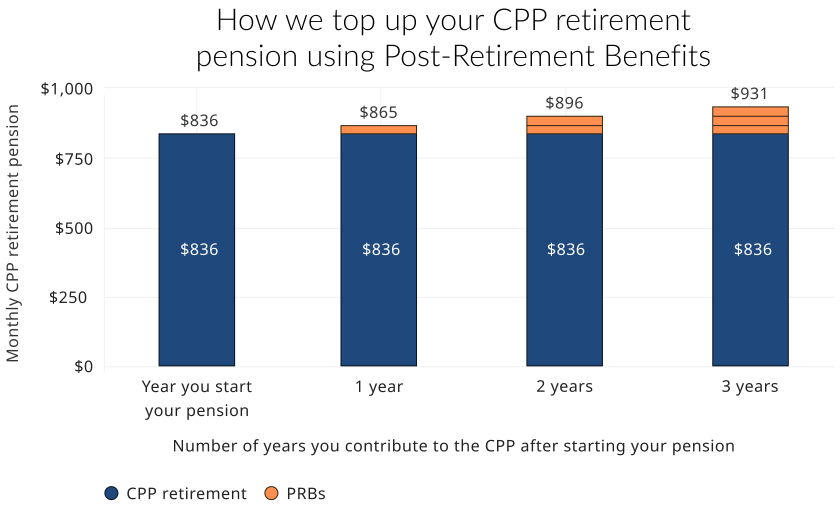
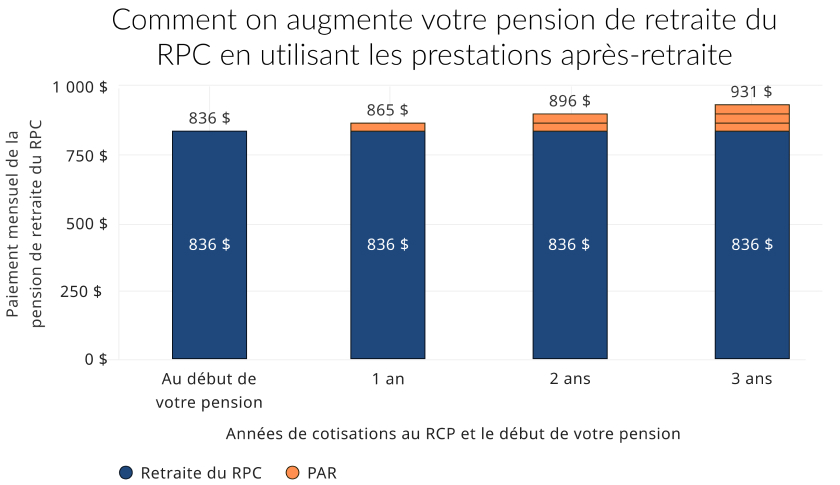
french translation and some structural changes (#293)
* french translation and some structural changes

* missed a non breaking space

* removing href from locale

diff --git a/frontend/src/pages/learn/main-sources-of-retirement-income.tsx b/frontend/src/pages/learn/main-sources-of-retirement-income.tsx
@@ -41,12 +41,12 @@ const MainSourcesOfRetirementIncome: FC = () => {
         secondary: t('learn-more.going-from-work-to-retirement.description'),
       },
       {
-        href: 'https://www.canada.ca/en/services/taxes/savings-and-pension-plans.html',
+        href: t('learn-more.savings-and-pension.href'),
         primary: t('learn-more.savings-and-pension.header'),
         secondary: t('learn-more.savings-and-pension.description'),
       },
       {
-        href: 'https://www.canada.ca/en/services/benefits/publicpensions/cpp/retirement-income-calculator.html',
+        href: t('learn-more.income-calculator.href'),
         primary: t('learn-more.income-calculator.header'),
         secondary: t('learn-more.income-calculator.description'),
       },
@@ -390,16 +390,12 @@ const MainSourcesOfRetirementIncome: FC = () => {
         <ul className="mb-5 list-disc space-y-2 pl-7">
           {[
             {
-              href: t('canada-pension-plan-program.cpp-post-retirement-benefit.helpful-resources.overview.link'),
-              primary: t('canada-pension-plan-program.cpp-post-retirement-benefit.helpful-resources.overview.content'),
-            },
-            {
               href: t('canada-pension-plan-program.cpp-post-retirement-benefit.helpful-resources.cpp.link'),
               primary: t('canada-pension-plan-program.cpp-post-retirement-benefit.helpful-resources.cpp.content'),
             },
             {
-              href: t('canada-pension-plan-program.cpp-post-retirement-benefit.helpful-resources.monthly.link'),
-              primary: t('canada-pension-plan-program.cpp-post-retirement-benefit.helpful-resources.monthly.content'),
+              href: t('canada-pension-plan-program.cpp-post-retirement-benefit.helpful-resources.stop-contributing.link'),
+              primary: t('canada-pension-plan-program.cpp-post-retirement-benefit.helpful-resources.stop-contributing.content'),
             },
           ].map(({ href, primary }) => (
             <li key={primary}>
